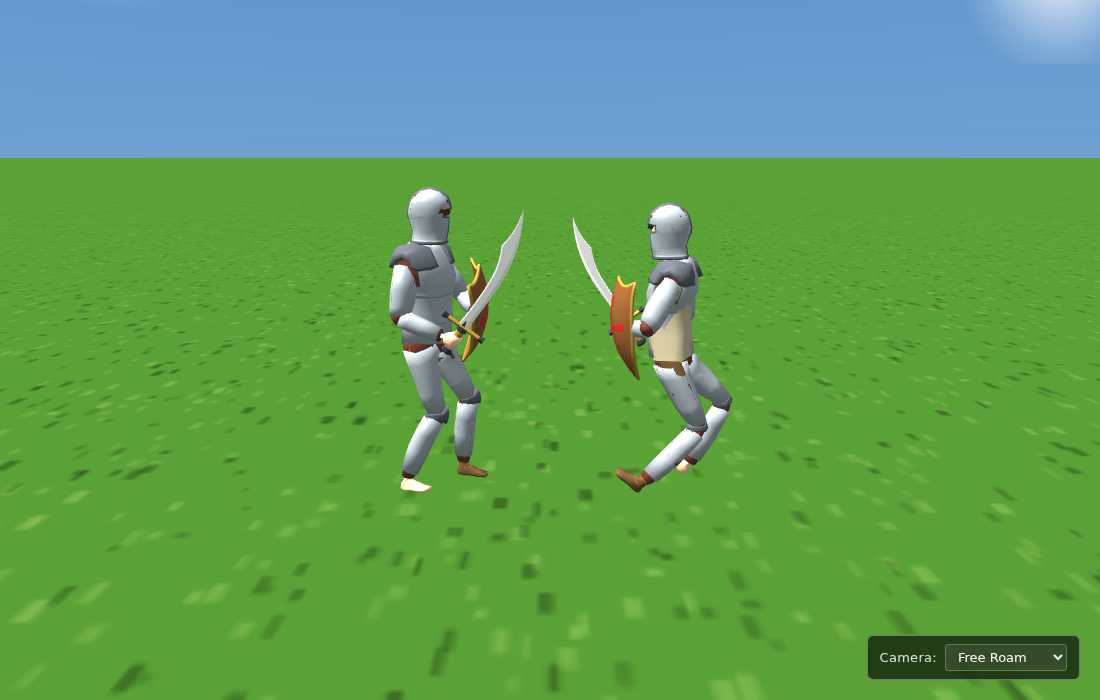
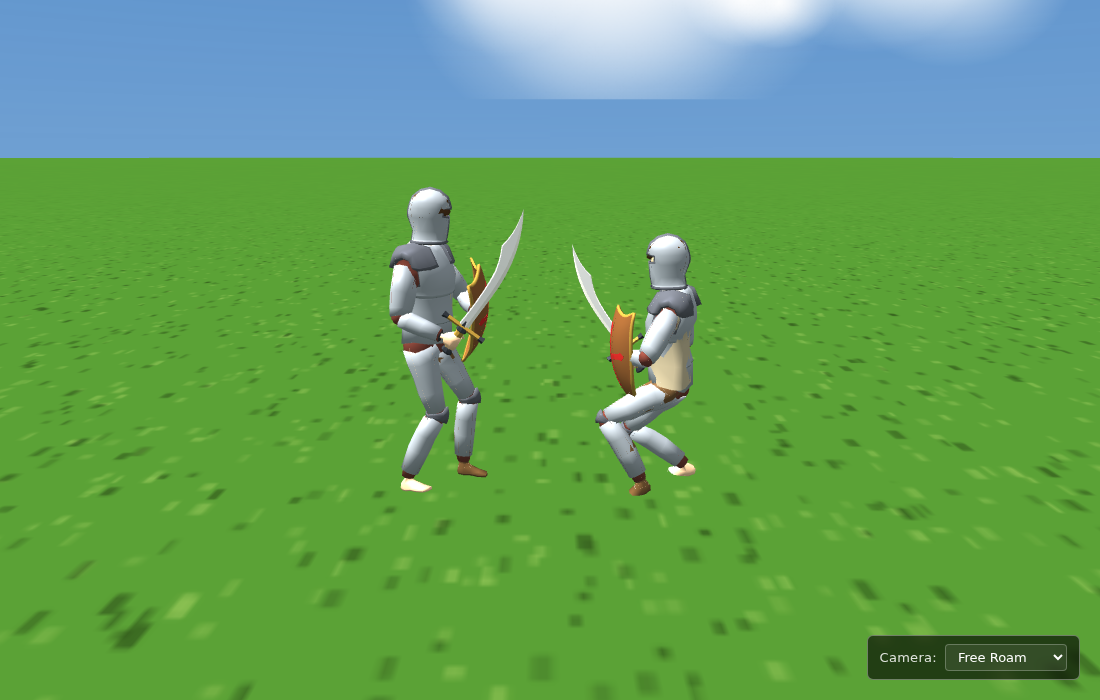
commit

diff --git a/src/game/engine.ts b/src/game/engine.ts
@@ -384,8 +384,11 @@ export function createEngine(
       const endRestPos = footNode.getAbsolutePosition().clone()
 
       // Pole hint = character's forward direction (knee bends forward).
+      // For this rig, the model's local +Z is its forward (confirmed
+      // empirically — Model 1 with Y=-π/2 maps local +Z → world +X,
+      // which matches its visual facing toward Model 2).
       m.root.computeWorldMatrix(true)
-      const poleHint = m.root.getDirection(new Vector3(0, 0, -1)).normalize()
+      const poleHint = m.root.getDirection(new Vector3(0, 0, 1)).normalize()
 
       const { newMidPos, newEndPos } = solveTwoBoneIK(
         rootPos, midRestPos, endRestPos, footTarget, poleHint,
